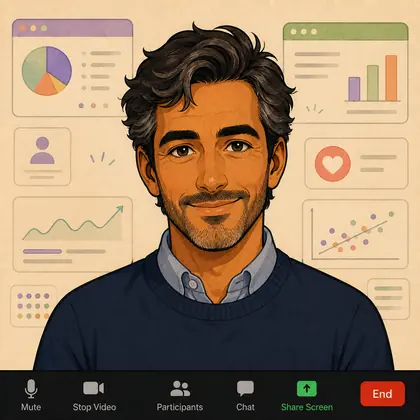
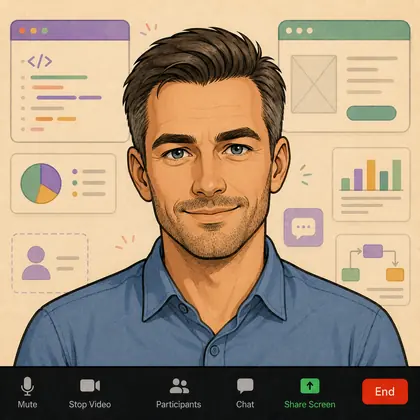
Портреты у всех 41 кандидата: добавлены Пётр Крылов и новый типаж для CTO-кандидата

diff --git a/play/index.html b/play/index.html
@@ -532,7 +532,7 @@ body.thunk #game{animation:thunk .42s}
 <div id="game"></div>
 <script>
 /* СГЕНЕРИРОВАНО faces-web.js — портреты лежат отдельными файлами и грузятся лениво. */
-window.GAME_FACES = {"d1c4":"faces/d1c4.webp","d1c1":"faces/d1c1.webp","d1c2":"faces/d1c2.webp","d2c6":"faces/d2c6.webp","d4c6":"faces/d4c6.webp","d1c5":"faces/d1c5.webp","d5c4":"faces/d5c4.webp","d2c3":"faces/d2c3.webp","d4c3":"faces/d4c3.webp","d7c4":"faces/d7c4.webp","d3c4":"faces/d3c4.webp","d5c2":"faces/d5c2.webp","d4c2":"faces/d4c2.webp","d7c1":"faces/d7c1.webp","d2c2":"faces/d2c2.webp","d3c6":"faces/d3c6.webp","d5c5":"faces/d5c5.webp","d5c1":"faces/d5c1.webp","d2c1":"faces/d2c1.webp","d4c4":"faces/d4c4.webp","d7c2":"faces/d7c2.webp","d2c5":"faces/d2c5.webp","d4c1":"faces/d4c1.webp","d5c3":"faces/d5c3.webp","d1c3":"faces/d1c3.webp","d6c6":"faces/d6c6.webp","d3c2":"faces/d3c2.webp","d6c2":"faces/d6c2.webp","d3c5":"faces/d3c5.webp","d6c1":"faces/d6c1.webp","d6c4":"faces/d6c4.webp","d3c1":"faces/d3c1.webp","d7c5":"faces/d7c5.webp","d7c3":"faces/d7c3.webp","d4c5":"faces/d4c5.webp","d6c3":"faces/d6c3.webp","d7c6":"faces/d7c6.webp","d2c4":"faces/d2c4.webp","d5c6":"faces/d5c6.webp","d6c5":"faces/d6c5.webp"};
+window.GAME_FACES = {"d1c4":"faces/d1c4.webp","d1c1":"faces/d1c1.webp","d1c2":"faces/d1c2.webp","d2c6":"faces/d2c6.webp","d4c6":"faces/d4c6.webp","d1c5":"faces/d1c5.webp","d5c4":"faces/d5c4.webp","d2c3":"faces/d2c3.webp","d4c3":"faces/d4c3.webp","d7c4":"faces/d7c4.webp","d3c4":"faces/d3c4.webp","d5c2":"faces/d5c2.webp","d4c2":"faces/d4c2.webp","d7c1":"faces/d7c1.webp","d2c2":"faces/d2c2.webp","d3c6":"faces/d3c6.webp","d5c5":"faces/d5c5.webp","d5c1":"faces/d5c1.webp","d2c1":"faces/d2c1.webp","d4c4":"faces/d4c4.webp","d7c2":"faces/d7c2.webp","d2c5":"faces/d2c5.webp","d4c1":"faces/d4c1.webp","d5c3":"faces/d5c3.webp","d1c3":"faces/d1c3.webp","d6c6":"faces/d6c6.webp","d3c2":"faces/d3c2.webp","d6c2":"faces/d6c2.webp","d3c5":"faces/d3c5.webp","d6c1":"faces/d6c1.webp","d6c4":"faces/d6c4.webp","d3c1":"faces/d3c1.webp","d7c5":"faces/d7c5.webp","d7c3":"faces/d7c3.webp","d4c5":"faces/d4c5.webp","d6c3":"faces/d6c3.webp","d7c6":"faces/d7c6.webp","d2c4":"faces/d2c4.webp","d5c6":"faces/d5c6.webp","d6c5":"faces/d6c5.webp","d3c3":"faces/d3c3.webp"};
 
 </script>
 <script>
